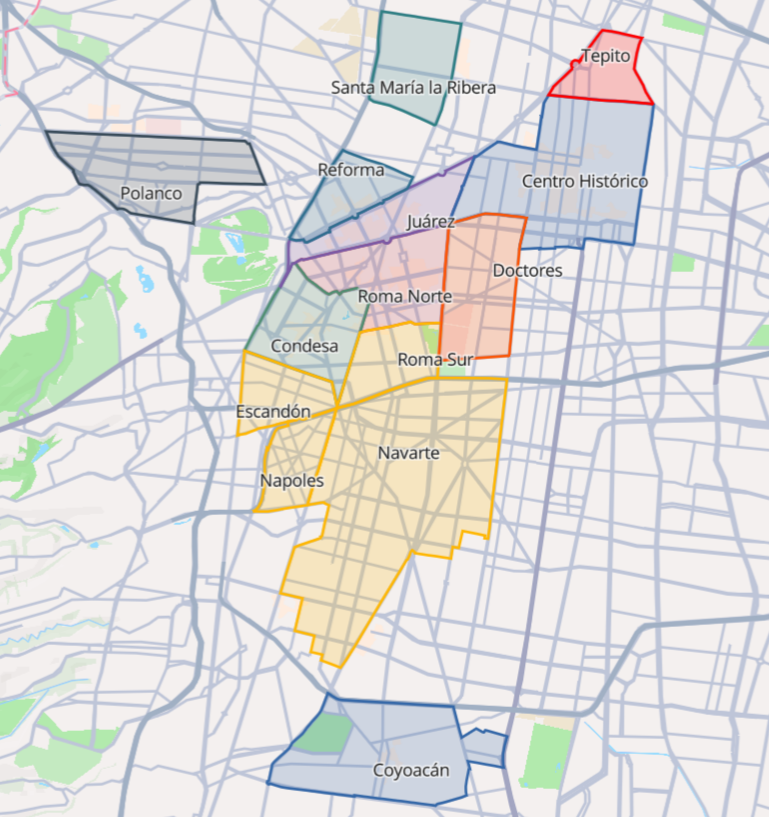
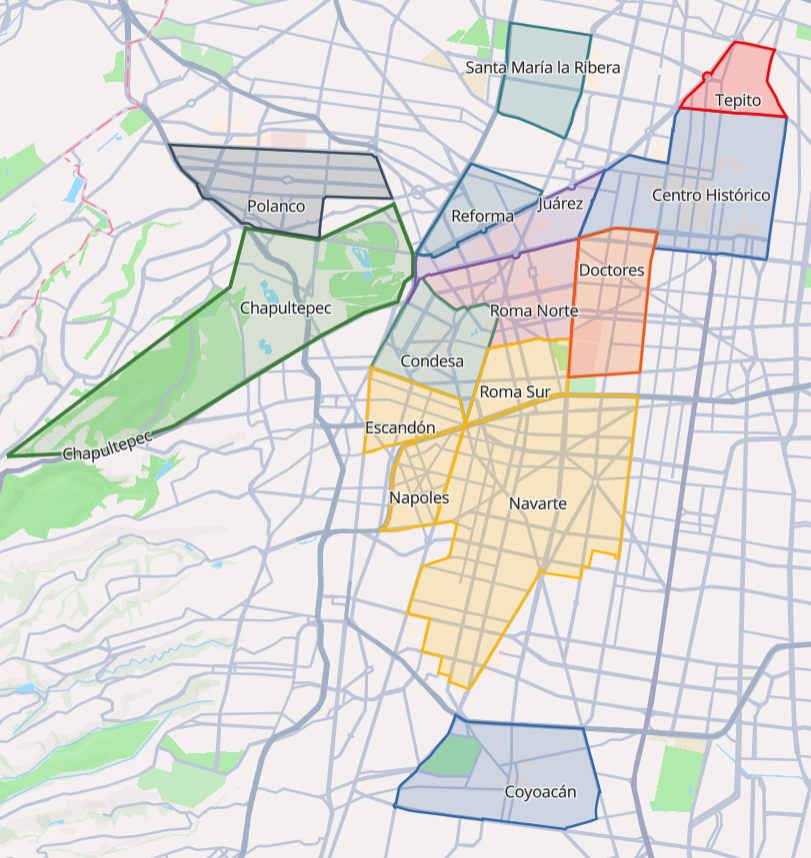
next

diff --git a/src/content/blog/2026-09-04_cdmx.md b/src/content/blog/2026-09-04_cdmx.md
@@ -1,42 +1,56 @@
 ---
-title: "CDMX"
-description: "Why I started a blog."
+title: "Guide to Mexico City"
+description: "The best of my favorite city."
 date: "2026-09-04"
-tag: "other" #tag: "travel"
+tag: "other"
 ---
 
-La Ciudad de México (CDMX) is my favorite city and is easily the most _interesting_ in North America.
+This sentence has five words. Here are five more words. Five word sentences are fine. But several together become monotonous. Listen to what is happening. The writing is becoming boring. The sound of it drones. It's like a stuck record. The ear demands some variety.
 
-It's like a mix of all my favorite things: it has vibrant streets that rival Southeast Asia, colonial architecture that brings a European feel, adjacency and ambition from the US, while retaining prehispanic traditions back from when the city was built on top of Lake Texcoco! [^history]
+Now listen. I vary the sentence length, and I create music. The writing sings. It has a pleasant rhythm, a lilt, a harmony. I use short sentences. And I use sentences of medium length. And sometimes when I am certain the reader is rested, I will engage him with a sentence of considerable length, a sentence that burns with energy and builds with all the impetus of a crescendo, the roll of drums, the crash of the cymbals-sounds that say listen to this, it is important.
+
+So write with a combination of short, medium, and long sentences. Create a sound that pleases the reader's ear. Don't just write words. Write music.
+
+---
+
+La Ciudad de México (CDMX) is my favorite city.
+
+And easily North America's most _interesting_. It rivals New York in size and Southeast Asia in vibrant streets. It mixes some US-adjacent culture and ambition with colonial-era architecture with prehispanic traditions[^history]. from it was built on top of Lake Texcoco! The mix is reflected in its food, its art, and its urbanism.
+
+<!-- It rivals New York in size and Southeast Asia in vibrant streets, borrows European architecture and some US-adjacent culture and ambition, and yet it retains prehispanic traditions all the way back from when the city was built on top of Lake Texcoco [^history]! The mix is reflected in its food, its art, and its urbanism. -->
+
+<!-- It rivals New York's size and Southeast Asia's vibrant streets, borrows European architecture and some US-adjacent culture and ambition, yet it retains prehispanic traditions all the way back from when the city was built on top of Lake Texcoco! [^history] -->
+
+<!-- It mixes vibrant streets that rival Southeast Asia with colonial architecture to bring a European urbanism feel with some US-adjacent culture and ambition, while retaining prehispanic traditions back from when the city was built on top of Lake Texcoco! [^history] -->
 
 <!-- It retains Aztec traditions, colonial architecture and its pedestrian-oriented city design with small businesses to discover on every street, that is delightful to walk in, and yet it isn't so different from the US that it feels like entering some parallel universe. [^history] -->
 
-I've been in and around it five times in the past few years, to visit and revisit places and neighborhoods. So these are my recommendations and ratings.
+I've been five times in the past few years to visit and revisit places and neighborhoods. Here are my recommendations.
 
 ## Where to stay
 
-**Stay in Roma Norte or in Condesa.** Roma Norte is more central so you'll be a short distance to a lot of the best restaurants, bars, street food, and clubs. But it's also loud at night. Condesa is more quiet and quaint, partly because it has many expats.
+**Roma Norte or La Condesa.** Roma Norte is more central so you'll be a short distance to a lot of the best restaurants, bars, street food, and clubs. But almost every corner is loud at night. If you prefer quaint and quiet, La Condesa is only a bit farther. Both are very safe and beautiful.
 
-If you speak Spanish or have already been a few times, consider Santa María la Ribera or cheap options in the residential neighborhoods further south.
+If you speak Spanish or have already been a couple times, consider Santa María la Ribera or going for cheaper options in the residential neighborhoods further south.
 
 ### Neighborhoods
 
 ![Map](/assets/cdmx-neighborhoods.png)
 
+Quick overview, in order of visit importance:
+
+1. [**Roma Norte**](#roma-norte) is the coolest all-around neighborhood with lots of shops, food, cafes, bars, and clubs.
+2. [**Centro Histórico**](#centro-histórico) has historic colonial buildings and some upscale restaurants.
+3. [**La Condesa**](#la-condesa) isn't as bustling but has the most beautiful parks and strolls.
+4. [**Coyoacán**](#coyoacán) is a charming area most famous for Frida Kahlo but it also has nice colonial buildings, parks, and cobblestone roads.
+5. [**Juárez**](#juárez) is like an extension of Roma Norte but more modern, more gay, more nightlife.
+6. [**Polanco**](#polanco) has luxury shopping and museums.
+7. [**Santa María la Ribera**](#santa-maría-la-ribera) is a pretty neighborhood in a rougher way. Feels on the verge of gentrification.
+8. [**Reforma**](#reforma) is worth walking (or biking on Sundays!) along the main road but also weirdly dead around the neighboring blocks.
+9. [**Tepito**](#tepito) and **Doctores** are more dangerous, but also have the best markets.
+10. [**Roma Sur, Escandón, Napoles, and Navarte**](#roma-sur-escandón-napoles-and-navarte) are more residential but that can be worth seeing, especially for extra-local food options.
+
 You can also take a look the meme-y but kinda accurate [Hoodmaps](https://hoodmaps.com/mexico-city) too.
-
-In order of visit importance:
-
-1. **Roma Norte** is the coolest all-around neighborhood with lots of food, bars, and vendors.
-2. **Centro Histórico** has historic colonial buildings and some upscale restaurants.
-3. **Juárez** as La Zona Rosa as a gay neighborhood with extra nightlife.
-4. **Condesa** doesn't have as much food but has the most beautiful parks and strolls.
-5. **Coyoacán** is a cool historic area famous for Frida Kahlo but also has some nice parks and cobblestone roads.
-6. **Polanco** has luxury shopping and Museo Soumaya is worth visiting its museum.
-7. **Santa María la Ribera** is a pretty neighborhood in a rougher (authentic?) way yet also feels on the verge of gentrification. Cool time to visit!
-8. **Reforma** is worth walking along the main road from Chapultepec to The Angel of Independence but weirdly dead around the neighboring blocks.
-9. **Tepito** and **Doctores** are more dangerous, but have some markets worth visiting especially with a local guide.
-10. **Roma Sur**, **Escandón**, **Napoles**, and **Navarte** are more residential but can be worth seeing for even more, extra local food options.
 
 ## When to visit
 
@@ -62,30 +76,16 @@ Do be a little afraid of the underground Metro, but it can be useful, especially
 
 I've sorta autistically kept lists of [literally everywhere I've been](https://maps.app.goo.gl/uMGL3c2kdX8JFRPM8) and [where I still want to go](https://maps.app.goo.gl/F7xJpBVUQCEBdNJc9).
 
-TODO: add chapultepec, and where to put neighborhoods...
 There are many specific places, but I want to again hash that its worth just going for a walk in certain [neighborhoods](#neighborhoods), enjoying the greenery and smaller lots along the way.
-
-### Excursions
-
-#### Xochimilco
-
-Definitely worth a day trip.
-If you like
-🎢 [Recorridos Kayak.Xochimilco](https://www.google.com/maps?cid=9631039241424442038)\
-Pretty amazing
-3 tiers: quiet, adventurous, party
-
-### Shopping
-
-Street markets called “tianguis” (prehispanic tradition even coming from the Aztec/Nahuatl word “tianquiztli”). They run at seemingly random times and places but someone made [a map of them](https://unpeaton.com/pensar-cosas-en-el-tianguis/https://unpeaton.com/pensar-cosas-en-el-tianguis/) all, when they run and what they generally sell.
-
-_Unrated positive notes are marked as inferred. BiciGratis is retained as the requested exception despite having no personal rating or note._ ([Google](https://www.google.com/local/userlists/list/SgUmuZakUuHFs0O9SAA8GAghi1porA))
 
 ### My ratings
 
 Here are my 4+ star ratings (and 5 star ratings have a ⭐), grouped by neighborhood and type:
 
 #### Chains
+
+Quick aside:
+Around the city are various street markets called "tianguis". They run at seemingly random times and places but someone made [a map](https://unpeaton.com/pensar-cosas-en-el-tianguis), when they run and what they generally sell. Check em out as convenient.
 
 🌮 [Taquería Orinoco](https://www.google.com/maps?cid=17351953950497789372)\
 Basically In n Out Chilango. Moist and tasty Al Pastor with an awesome spread of salsas if you eat there. To-go is not easy to eat "on the go"; better to take it home. Res not as good as trompo, but chicharrón has great flavor and texture. Often long lines and seem to run out of stuff often. 2 tacos al pastor + 1 chicharrón = $100.
@@ -203,11 +203,12 @@ Great cheesecake flavor, okay pistachio
 🍸 [El Palenquito](https://www.google.com/maps?cid=962970031895835767)\
 Good drinks and mezcal selection; nice ambiance
 
-🍸 [Roof vibe](https://www.google.com/maps?cid=12699250648989708513)\
-Funny spot on covered rooftop, playing music videos but not too loud; delicious and large and unique michelada options
-
 🍸 [Tlecan](https://www.google.com/maps?cid=14688874283863657510)\
-#20 best bar; https://archive.is/JH4Il; Tried: Tascalate -- 4/5, super interesting but not gluggable or refreshing; Margarita -- 4/5, excellent but not as interesting; Oceloyotl / Carajillo -- kinda like a coffee liquorice flavor; Pulque Colada -- slightly weirder piña colada. Would still like to try the negroni cacao
+#20 best bar: https://archive.is/JH4Il\
+Tascalate -- 4/5, super interesting but not gluggable or refreshing\
+Margarita -- 4/5, excellent but not as interesting\
+Oceloyotl / Carajillo -- kinda like a coffee liquorice flavor\
+Pulque Colada -- slightly weirder piña colada
 
 🕺 [Patrick Miller](https://www.google.com/maps?cid=1487692973016096160)\
 Annoying lines and so many people, but that's sweet when most people are there to actually dance
@@ -233,7 +234,7 @@ Carne muy suave, como una birria de borrego
 Most cocktails were super interesting; some were of the best I've ever had. Biggest downside was the music was a little too loud and basically just Kendrick Lamar Spotify radio, which didn't fit the vibe. Best in terms of flavor: Matcha Dame, Cariño, Butter Mushroom Old Fashioned, Once Upon a Time in Oaxaca, Piña Colada, Mexi-Thai\
 https://archive.is/JH4Il
 
-#### Condesa
+#### La Condesa
 
 🌲 [Parque México](https://www.google.com/maps?cid=12408141702709851923) ⭐\
 Muy bonito y muchos perros, bailas y masajes de calle
@@ -377,7 +378,8 @@ Nice people, interesting space, tasty bagel sandwich, comfy spot to work
 
 #### Reforma
 
-bicigratis
+🌲 [BiciGratis](https://www.google.com/maps?cid=5316132429939122806)\
+Every Sunday morning, La Reforma is closed to cars and people bike, run, and skate from Chapultepec all the way to La Basilica. You can rent a free bike here if you sign a form and leave an ID. It can be popular so show up by 9 AM for a good chance. There are other free bike options along the road too.
 
 🏛 [The Angel of Independence](https://www.google.com/maps?cid=7797541911528484855)\
 Dope statue, usually lots of vendors on the sidewalk
@@ -423,14 +425,30 @@ It's cool! I didn't love love it, but I had high expectations and I'm comparing 
 
 #### Other places around CDMX
 
+🏛 [Basilica of Our Lady of Guadalupe](https://www.google.com/maps?cid=2423194957463972528)\
+Could be worth seeing even if you're not Catholic for the architecture and landscaping and views of the city. Has Juan Diego's tilma, Mexico's most popular religious symbol.
+
 🌲 [Parque Hundido](https://www.google.com/maps?cid=15207199447342577156)\
 Never seen a park like it. Feels enormous with many different sections. Worth checking out, especially if there were an event. Only some parts feel poorly taken care of
 
-🏛 [Basilica of Our Lady of Guadalupe](https://www.google.com/maps?cid=2423194957463972528)\
-Worth seeing for the architecture and landscaping and views of the city. Juan Diego's tilma -- Mexico's most popular religious and cultural symbol
-
 🌮 [Barbacoa El Dany’s](https://www.google.com/maps?cid=8770180752094522156)\
 Amazing tortillas y carne suave
+
+#### Xochimilco
+
+In the far southeast of the city, there's still a maze of Aztec canals. Absolutely worth a visit if you're here for more than a couple days. There are a couple ways to experience it:
+
+In a trajinera:
+TODO: photo
+If you take a trajinera It's $1500 MXN for 2 hours for the whole boat, don't let them scam you into "per person" or "one more hour if you agree now". I'd love to do it with a bigger group bringing a lot of drinks and food, probably at the other spot, La Nativitas.
+
+in the drunken area -- or in the quieter area --
+
+In a kayak. I used this tour group which I don't think speaks much English ...
+
+1. The way every native has: get a big group together and get drunk as hell while a trajinero does a round through the maze. [Embarcadero Nuevo Nativitas](https://www.google.com/maps?cid=18227576249178908905).
+2. Same concept but way less drunken-ness and different area: [Embarcadero Cuemanco](https://www.google.com/maps?cid=3956850909224153812).
+3. Get up very early and paddle yourself in a kayak: [Recorridos Kayak.Xochimilco](https://www.google.com/maps?cid=9631039241424442038) (I don't think this tour groups' guides speak much English though).
 
 ---
 
